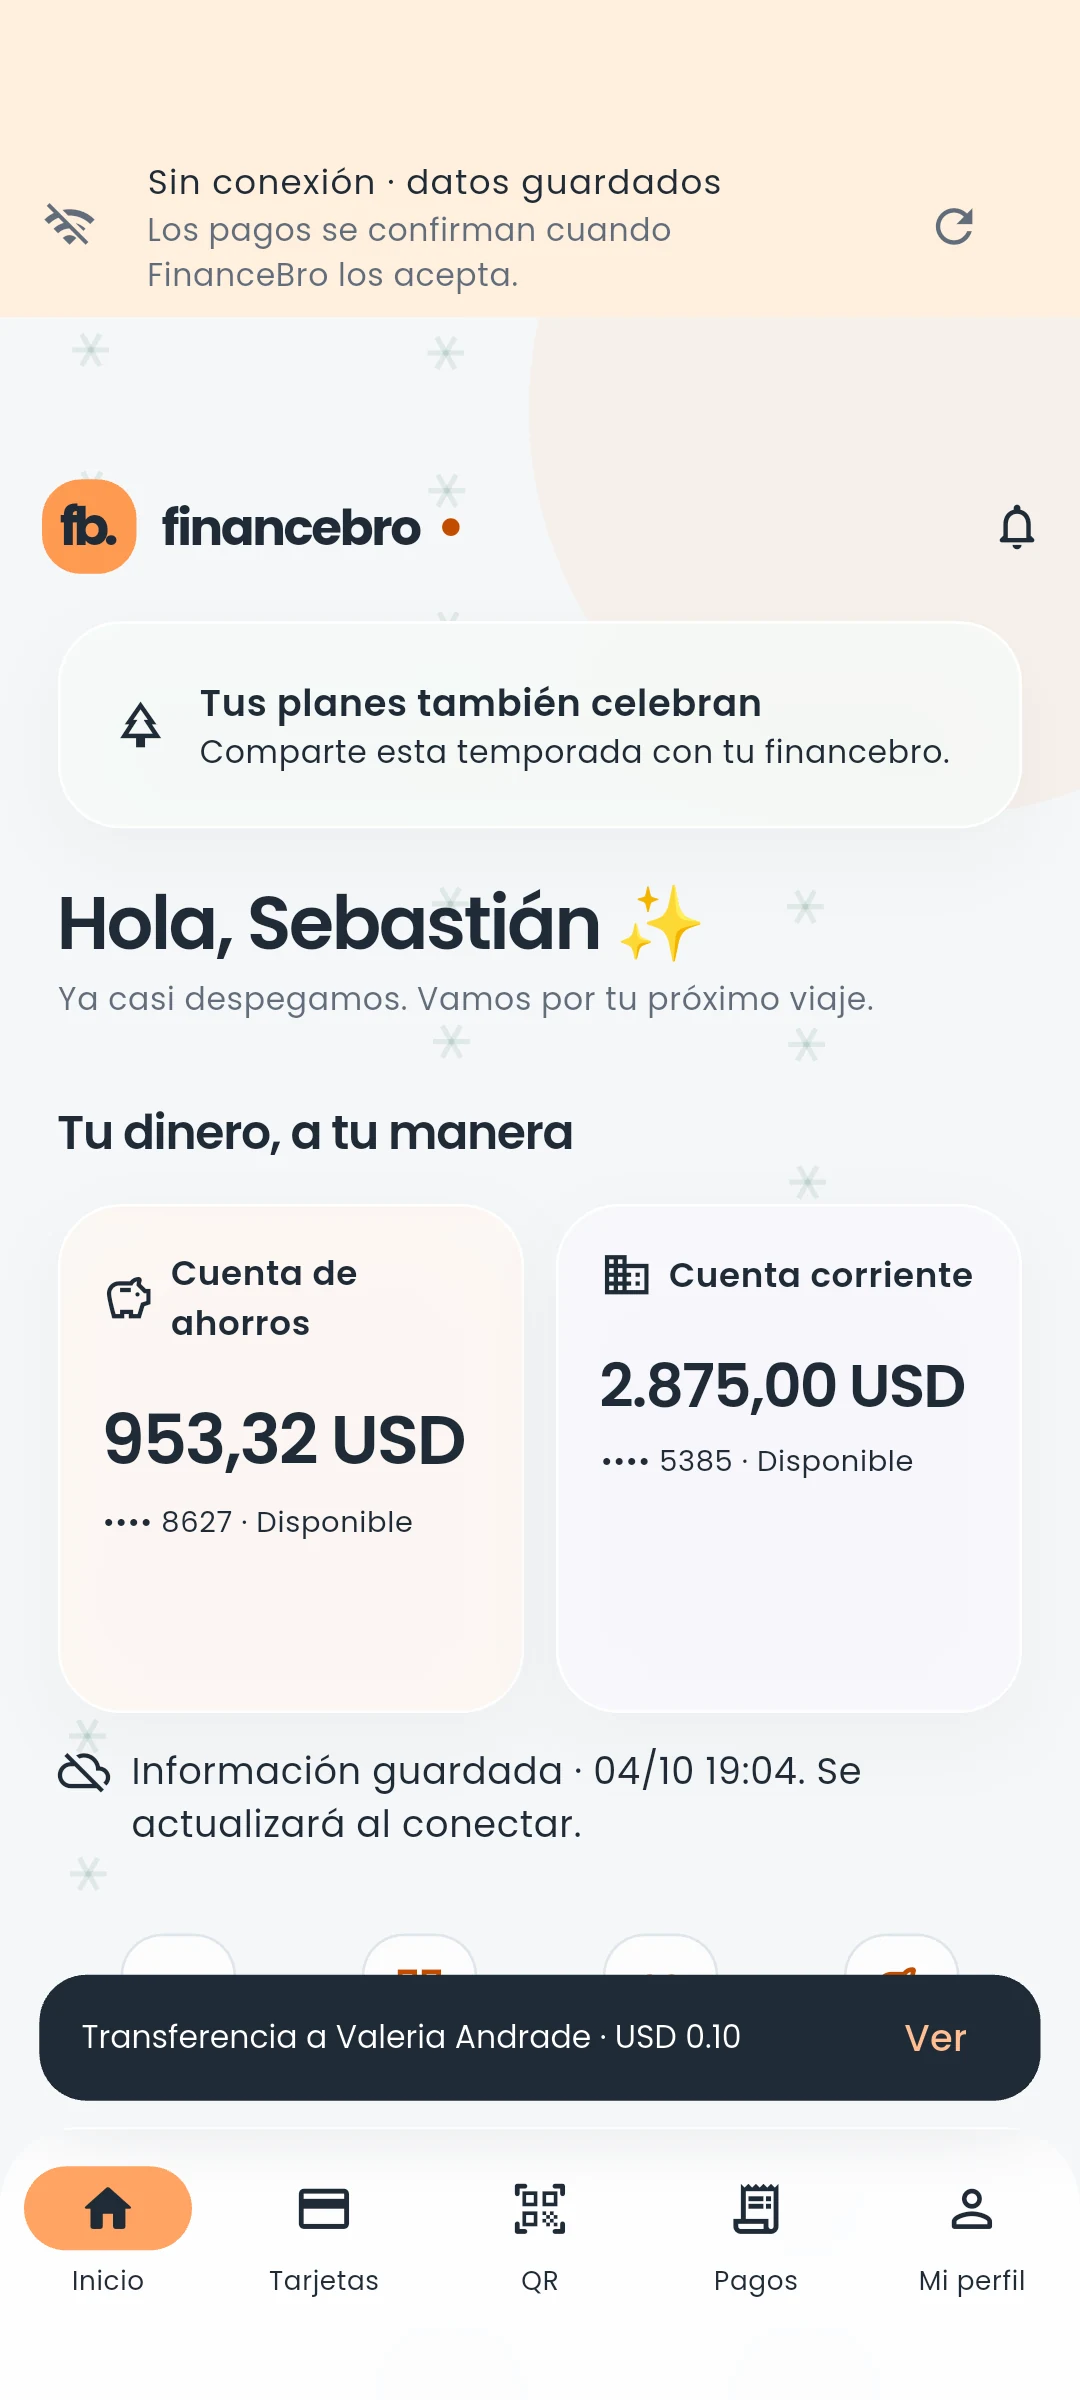
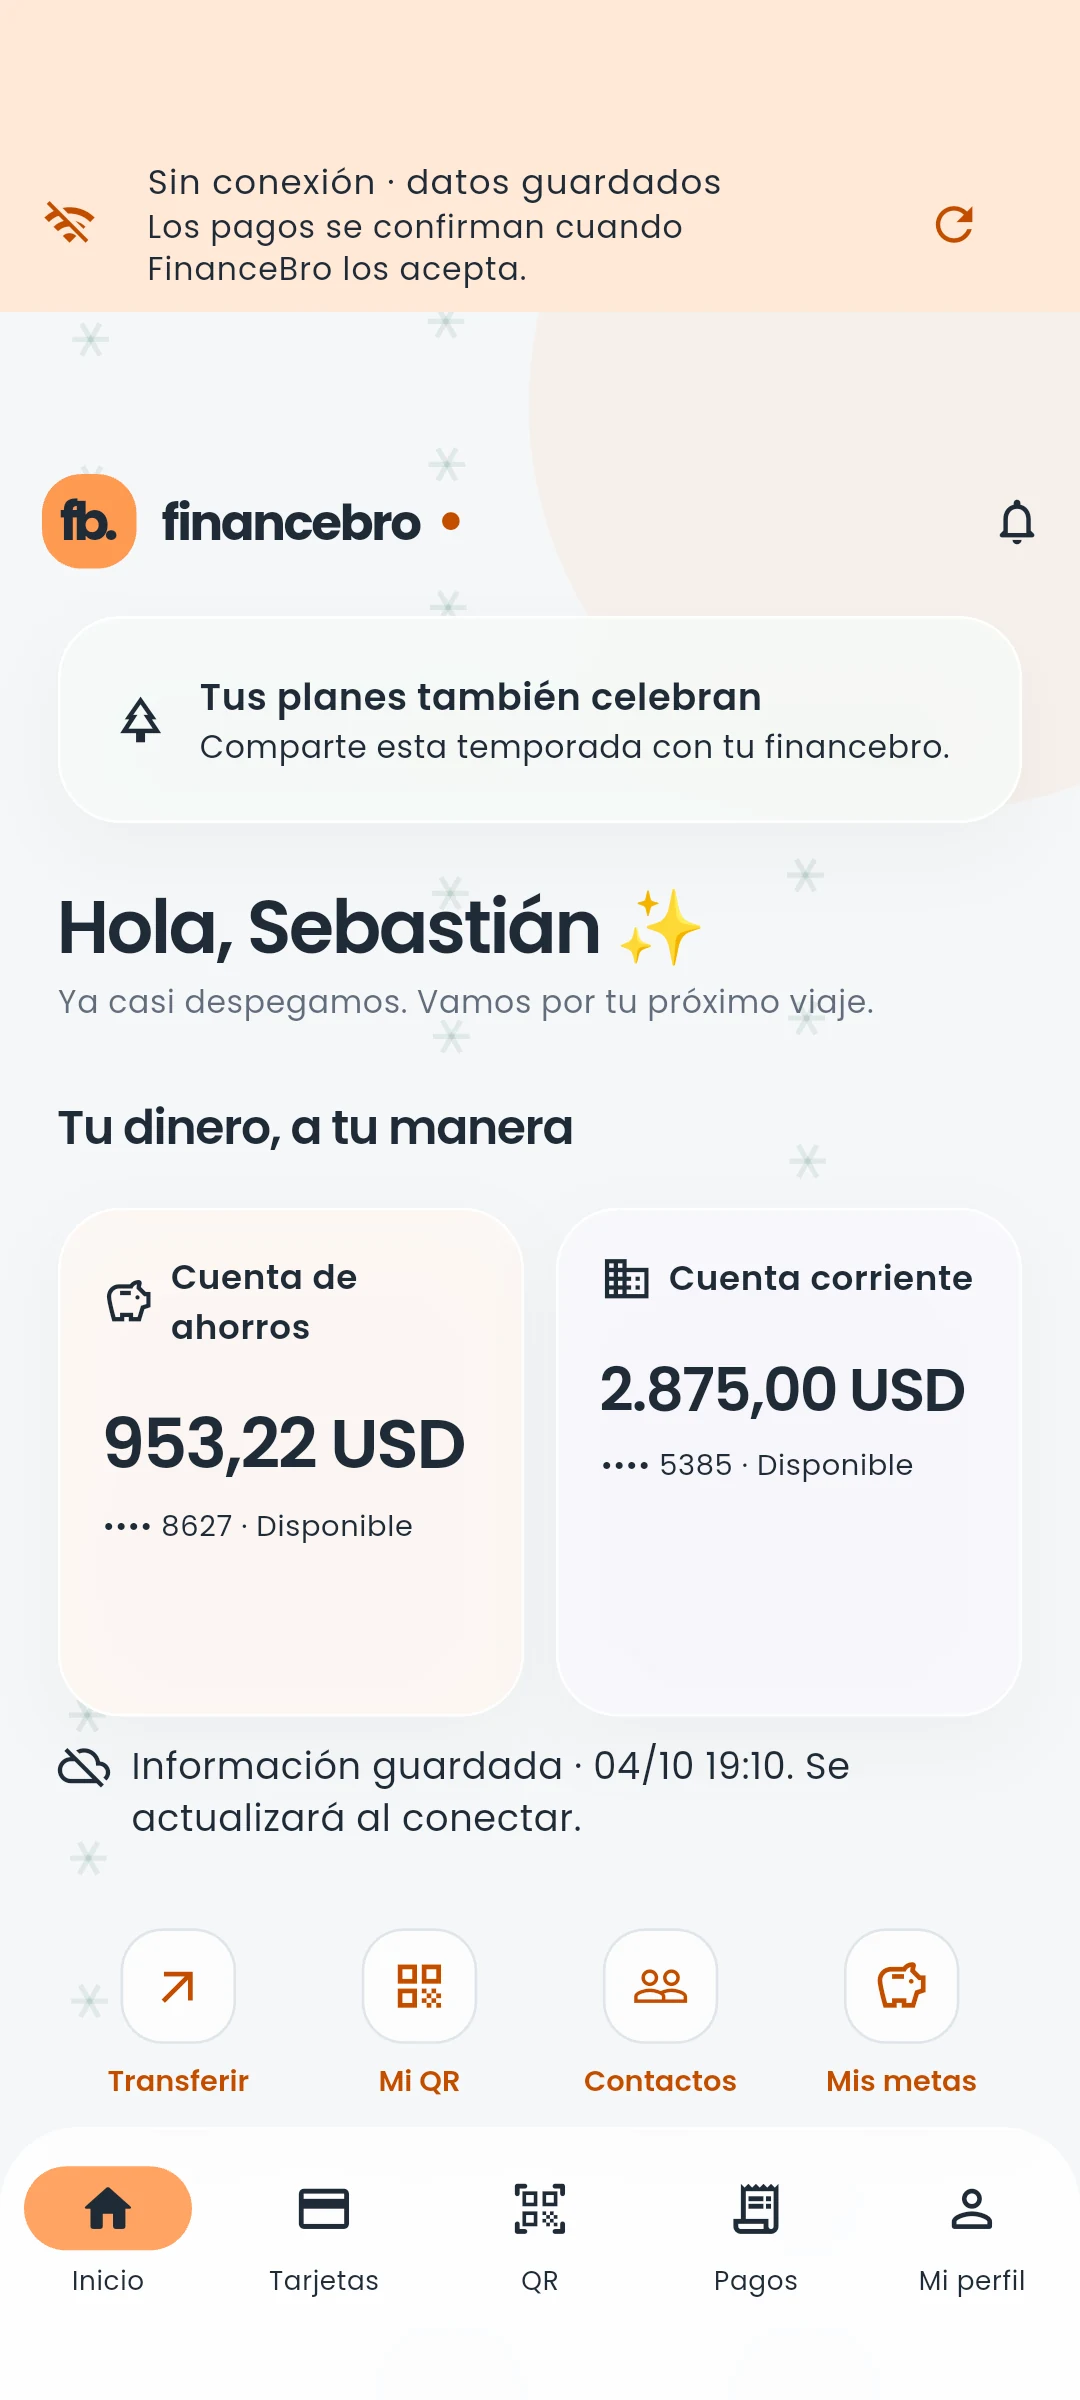
Etapa 52: publicar documentación y escenarios de conectividad para evaluación

diff --git a/admin/public/revision/index.html b/admin/public/revision/index.html
@@ -14,11 +14,12 @@
   <body>
     <header class="barra">
       <a class="marca" href="#inicio" aria-label="FinanceBro, inicio">fb.</a
-      ><span>FinanceBro <small>Revisión funcional · 1.6.2</small></span>
+      ><span>FinanceBro <small>Revisión funcional · 1.6.3</small></span>
       <nav>
         <a href="https://github.com/CodeArtNexus/financebro-flutter"
           >Repositorio ↗</a
         ><a href="/">Panel ↗</a
+        ><a href="#documentacion">Guía</a
         ><button id="apariencia" aria-label="Cambiar apariencia">◐ Tema</button>
       </nav>
     </header>
@@ -35,9 +36,9 @@
           <div class="acciones">
             <a class="principal" href="#pantallas">▦ Explorar pantallas</a
             ><a
-              href="https://github.com/CodeArtNexus/financebro-flutter/releases/tag/v1.6.2-integridad"
+              href="https://github.com/CodeArtNexus/financebro-flutter/releases/tag/v1.6.3-entrega"
               >↓ Instalar Android</a
-            >
+            ><a href="#documentacion">◇ Guía de evaluación</a>
           </div>
           <div class="datos">
             <span><strong id="total">…</strong> capturas</span
@@ -78,7 +79,7 @@
           ><button data-ruta="Administración">
             ⑥ Administración
             <small>Fondos → expedientes → avisos y catálogo</small>
-          </button>
+          </button><button data-ruta="Conectividad">⑦ Conectividad<small>Carga → caché → fallo parcial → recuperación</small></button>
         </div>
       </section>
       <section id="pantallas" aria-labelledby="titulo-pantallas">
@@ -146,13 +147,25 @@
         </div>
         <p><a href="integridad-global.json">Ver conciliación ampliada de los seis perfiles y nueve cuentas ↗</a></p>
       </section>
+      <section id="documentacion" class="documentacion" aria-labelledby="titulo-documentacion">
+        <span class="etiqueta">DECISIONES Y EVIDENCIA</span>
+        <h2 id="titulo-documentacion">De la experiencia a sus decisiones.</h2>
+        <p>Consulta cómo se organiza FinanceBro, cómo conserva una operación y qué límites tiene esta entrega. El recorrido explica cómo repetir cambios remotos, push en Android y escenarios de conexión.</p>
+        <div class="documentos">
+          <a href="https://github.com/CodeArtNexus/financebro-flutter/blob/main/documentacion/arquitectura.md">◇ Arquitectura y diagramas<small>Componentes, flujos y dominios</small></a>
+          <a href="https://github.com/CodeArtNexus/financebro-flutter/blob/main/documentacion/decisiones.md">⌘ Decisiones técnicas<small>Alternativas y compromisos</small></a>
+          <a href="https://github.com/CodeArtNexus/financebro-flutter/blob/main/documentacion/operacion.md">◎ Operación y monitoreo<small>Publicación, diagnóstico y recuperación</small></a>
+          <a href="https://github.com/CodeArtNexus/financebro-flutter/blob/main/documentacion/evaluacion.md">↻ Recorrido reproducible<small>Conectividad, reintentos y caché</small></a>
+          <a href="https://github.com/CodeArtNexus/financebro-flutter/blob/main/documentacion/uso-ia.md">✦ Uso de IA<small>Reducción de carga operativa y verificación</small></a>
+          <a href="https://github.com/CodeArtNexus/financebro-flutter/blob/main/documentacion/requisitos.md">✓ Requisitos y alcance<small>Evidencia de cada mínimo solicitado</small></a>
+        </div>
+      </section>
       <section class="alcance">
         <h2>Cómo interpretar esta revisión</h2>
         <p>
           Android e iOS se capturaron en emulador y simulador. El panel utiliza
           el mismo servidor publicado; los valores corresponden al momento de
-          cada captura. Las pantallas sin internet usan un escenario controlado,
-          identificado al ampliar la imagen.
+          cada captura. Las pantallas de desconexión, latencia y caída de divisas usan escenarios controlados, identificados al ampliar la imagen. La recuperación vuelve a consultar el proveedor externo; las capturas muestran cada estado y el recorrido enlazado permite repetirlo.
         </p>
         <p>
           FinanceBro es un prototipo: fondos, proveedores, documentos y tarjetas

diff --git a/admin/public/revision/revision.css b/admin/public/revision/revision.css
@@ -543,3 +543,5 @@ body.visor-abierto {
     text-align: center;
   }
 }
+
+.documentos{display:grid;grid-template-columns:repeat(3,minmax(0,1fr));gap:16px;margin-top:24px}.documentos a{display:flex;flex-direction:column;gap:10px;padding:22px;border:1px solid var(--borde);border-radius:22px;background:var(--cristal);color:inherit;text-decoration:none;backdrop-filter:blur(16px);line-height:1.4}.documentos a:hover{border-color:var(--acento)}.documentos small{font-size:.85rem;opacity:.72}.documentos a:focus-visible{outline:3px solid #f69543;outline-offset:4px}@media(max-width:760px){.documentos{grid-template-columns:repeat(2,minmax(0,1fr))}}@media(max-width:480px){.documentos{grid-template-columns:1fr}}

diff --git a/README.md b/README.md
@@ -4,7 +4,7 @@ Aplicación financiera en Flutter para Android e iOS, acompañada de un panel we
 
 FinanceBro es un prototipo para evaluación técnica. Los fondos, cuentas, tarjetas, documentos y proveedores utilizados en el recorrido son sintéticos: no custodia dinero ni ejecuta pagos bancarios reales. Deben emplearse exclusivamente identidades y documentos ficticios.
 
-## Versión actual · 1.6.2
+## Versión actual · 1.6.3
 
 El [panel de administración](https://financebro-sb-20261003.web.app) y la aplicación móvil comparten Firebase Authentication, Firestore, Storage y Functions. La compilación normal utiliza este servidor; no requiere mantener encendido un servidor en el equipo del evaluador. Los accesos de evaluación se proporcionan por separado, sin publicar credenciales en este repositorio. Hay perfiles con productos e históricos cargados, una contraparte para transferencias y cheques, y solicitudes pendientes para el asesor.
 
@@ -14,9 +14,9 @@ La identidad visual usa la marca `fb.`, naranja, superficies de cristal, iconos 
 
 [**Abrir pantallas e interacciones de FinanceBro**](https://financebro-sb-20261003.web.app/revision/)
 
-La galería pública reúne capturas nativas de Android e iOS en temas claro y oscuro, junto con las vistas del panel publicado. Permite filtrar por función, plataforma y apariencia, ampliar cada imagen y recorrer estados de registro, contrato, productos, transferencias, comprobantes, pagos, crédito, contactos, chequera, personalización y conectividad. Las solicitudes pendientes y la elección del corte muestran etapas diferentes del mismo producto. Los datos son ficticios; las capturas reflejan el momento de la revisión.
+La galería pública reúne 210 capturas nativas de Android e iOS en temas claro y oscuro, junto con las vistas del panel publicado. Permite filtrar por función, plataforma y apariencia, ampliar cada imagen y recorrer estados de registro, contrato, productos, transferencias, comprobantes, pagos, crédito, contactos, chequera, personalización y conectividad. Las solicitudes pendientes y la elección del corte muestran etapas diferentes del mismo producto. El recorrido de conectividad incorpora carga con latencia, caída parcial, cuentas disponibles, error sin caché, desconexión y recuperación, en ambos sistemas y apariencias. Los datos son ficticios; las capturas reflejan el momento de la revisión.
 
-Las operaciones se ejecutan desde la aplicación y el panel con los accesos entregados por separado. La galería permite revisar la interfaz sin iniciar sesión y no contiene contraseñas ni documentación personal. [Descargar la versión Android](https://github.com/CodeArtNexus/financebro-flutter/releases/tag/v1.6.2-integridad).
+Las operaciones se ejecutan desde la aplicación y el panel con los accesos entregados por separado. La galería permite revisar la interfaz sin iniciar sesión y no contiene contraseñas ni documentación personal. [Descargar la versión Android](https://github.com/CodeArtNexus/financebro-flutter/releases/tag/v1.6.3-entrega).
 
 ## Documentación para la evaluación
 
@@ -108,6 +108,8 @@ Los clientes no pueden escribir saldos, movimientos, aprobaciones o tarjetas dir
 El rol de administración se asigna desde una herramienta de confianza y se comprueba también en el servidor. Cambiar el perfil o el navegador no concede permisos. Las reglas e índices de Firestore y Storage forman parte del repositorio; deben desplegarse junto con Functions. Las imágenes de tarjetas no utilizan enlaces públicos permanentes.
 
 ## Comprobaciones de integridad
+
+La versión 1.6.3 completa la documentación de evaluación y añade dos pruebas de contraste del aviso de conexión en temas claro y oscuro. Las 123 verificaciones automáticas se acompañan de recorridos nativos separados; el aviso ahora utiliza los colores de cada tema para conservar legibilidad.
 
 La versión 1.6.2 añade escenarios que compiten por el mismo saldo con transferencias, ajustes y cobros de cheques. Confirman conservación de fondos, ausencia de sobregiros, correspondencia entre movimiento específico y global, comprobante único y bandeja de avisos. Un fallo al crear cualquiera de los registros revierte la transferencia completa. La cuenta receptora debe coincidir con el directorio; importes, saldos, deuda, cupo y totales de cheques se comprueban antes de mover fondos.
 

diff --git a/documentacion/evaluacion.md b/documentacion/evaluacion.md
@@ -1,6 +1,6 @@
 # Recorrido funcional y escenarios degradados
 
-La evaluación puede realizarse con el [APK Android](https://github.com/CodeArtNexus/financebro-flutter/releases/tag/v1.6.2-integridad), Flutter y el [panel publicado](https://financebro-sb-20261003.web.app/). Los accesos de cliente, contraparte y asesor se entregan por separado. Todos los importes, identidades y documentos utilizados deben ser ficticios.
+La evaluación puede realizarse con el [APK Android](https://github.com/CodeArtNexus/financebro-flutter/releases/tag/v1.6.3-entrega), Flutter y el [panel publicado](https://financebro-sb-20261003.web.app/). Los accesos de cliente, contraparte y asesor se entregan por separado. Todos los importes, identidades y documentos utilizados deben ser ficticios.
 
 ## Preparación
 
@@ -55,7 +55,7 @@ Las pruebas cubren fallo de almacenamiento, archivo dañado, cambio de identidad
 
 ## Pruebas reproducibles y capturas
 
-[Verificaciones de CI](https://github.com/CodeArtNexus/financebro-flutter/actions) separan Flutter, reglas, panel y servidor. Las 121 pruebas automáticas de la entrega base incluyen 50 Flutter, 35 operaciones bancarias, 5 validaciones, 23 reglas, 3 del panel y 5 de reconstrucción. Los recorridos móviles adicionales necesitan dispositivo; no se suman como si fueran tareas ejecutadas en CI.
+[Verificaciones de CI](https://github.com/CodeArtNexus/financebro-flutter/actions) separan Flutter, reglas, panel y servidor. Las 123 pruebas automáticas de la entrega incluyen 52 Flutter, 35 operaciones bancarias, 5 validaciones, 23 reglas, 3 del panel y 5 de reconstrucción. Los recorridos móviles adicionales necesitan dispositivo; no se suman como si fueran tareas ejecutadas en CI.
 
 ```sh
 ./scripts/check.sh
@@ -78,6 +78,6 @@ flutter drive -d emulator-5554 \
 
 En simulador iOS sustituir identificador y plataforma por los correspondientes. Las capturas muestran una consulta externa real y fallos inducidos expresamente; no son pantallas ilustradas. El archivo `verificacion.txt` confirma que terminó el recorrido.
 
-La [galería pública](https://financebro-sb-20261003.web.app/revision/) complementa estos pasos con filtros y estados ampliables. Las imágenes son evidencia visual de un momento y los perfiles pueden cambiar al utilizarse. El video de presentación se incorporará posteriormente; no se incluye un enlace vacío ni se afirma que ya esté grabado.
+La galería reúne 210 capturas: 96 Android, 96 iOS y 18 del panel. El recorrido de conectividad conserva 14 estados por sistema y renueva también el aviso sin conexión en el resumen. La [galería pública](https://financebro-sb-20261003.web.app/revision/) complementa estos pasos con filtros y estados ampliables. Las imágenes son evidencia visual de un momento y los perfiles pueden cambiar al utilizarse. El video de presentación se incorporará posteriormente; no se incluye un enlace vacío ni se afirma que ya esté grabado.
 
 Las pruebas completas se apoyan en el [enfoque de integración de Flutter](https://docs.flutter.dev/cookbook/testing/integration/introduction); su ejecución no reemplaza comprobar los permisos y avisos nativos.
